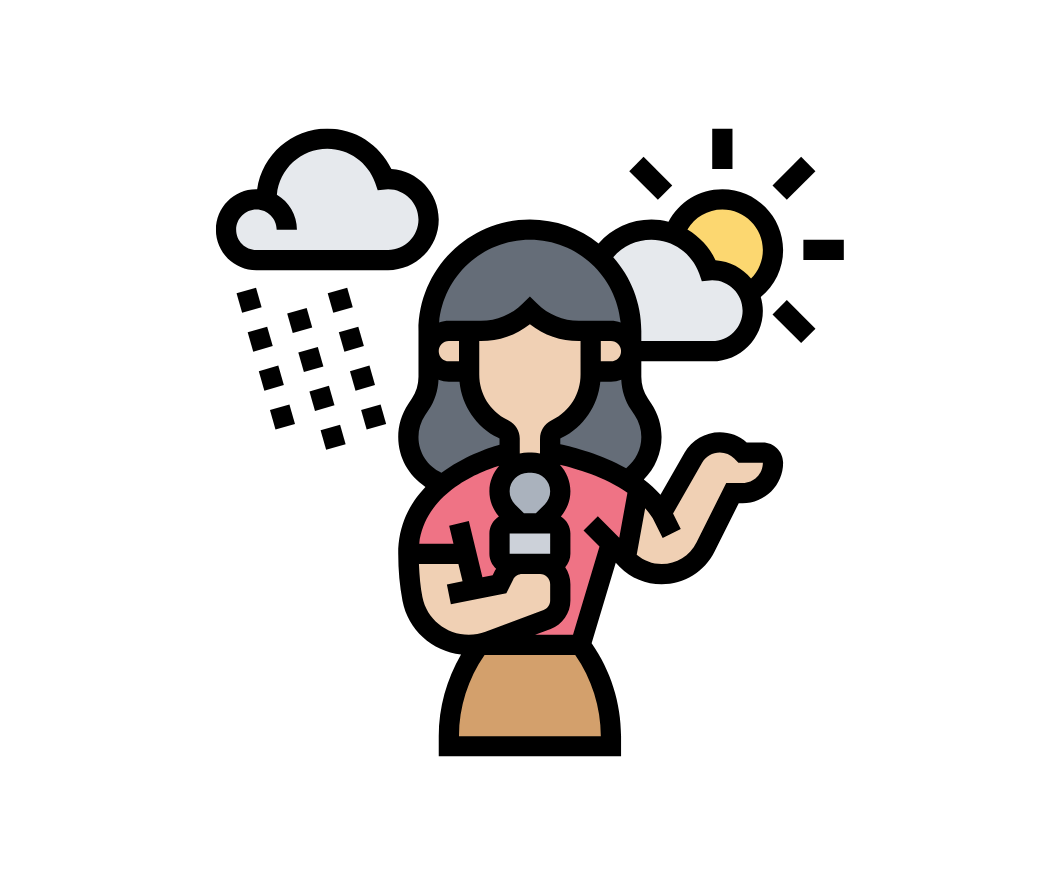
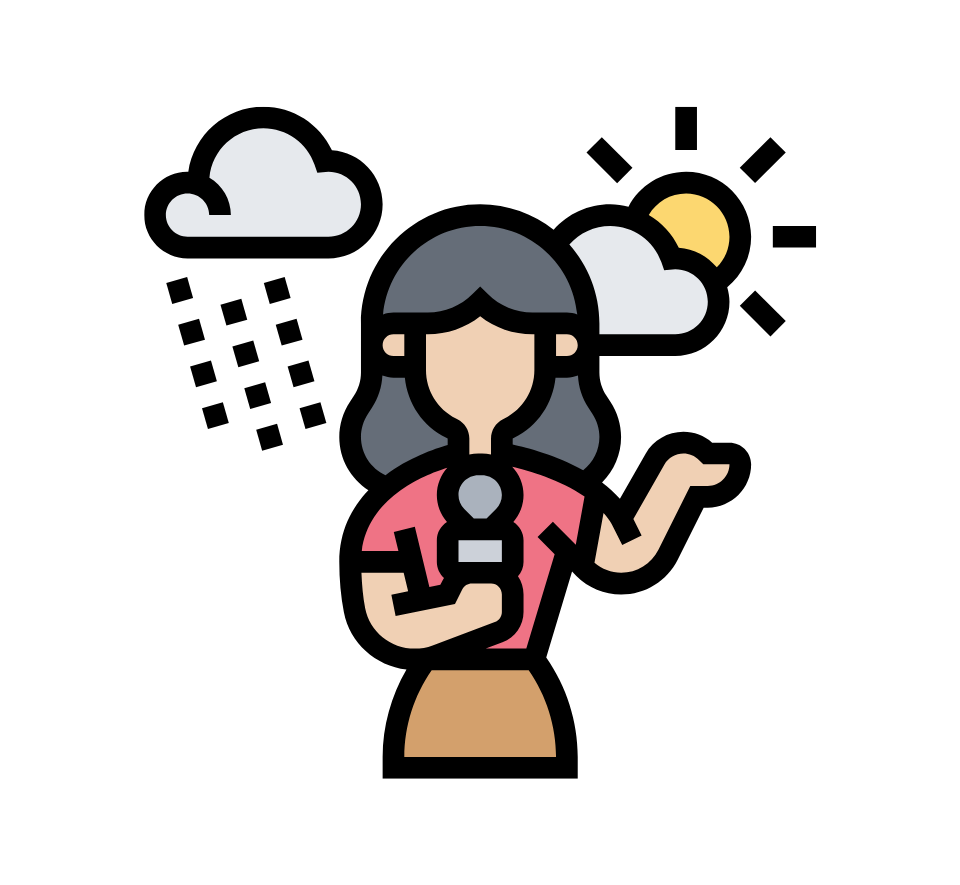
Cahnge Hero Image resolution

Changed region(s): [[0.125, 0.122, 0.875, 0.8847]]

diff --git a/src/components/Hero.js b/src/components/Hero.js
@@ -10,7 +10,7 @@ function Hero() {
                         <div className="hero-text">
                             <h1 className="text-white" >Lakukan Pencarian Cuaca Berdasarkan Kota</h1>
                             <Link className="btn custom-btn mt-3" to="/search/">Get Started!</Link>
-                            <strong className="d-block py-3 pl-5 text-white">0812-2519-7072</strong>
+                            <small className="d-block py-3 pl-5 text-white">Pastikan menggunakan koneksi yang baik.</small>
                         </div>
                     </div>
                     <div className="col-12 col-lg-6">

diff --git a/src/styles/style.css b/src/styles/style.css
@@ -14,6 +14,7 @@ body {
 
 main {
   padding: 70px 0px 15px 0px;
+  min-height: 91vh;
 }
 
 .app-container {
@@ -30,7 +31,7 @@ hr {
 
 .hero {
   position: relative;
-  padding: 5em 0;
+  padding: 4em 0;
   overflow: hidden;
 }
 
